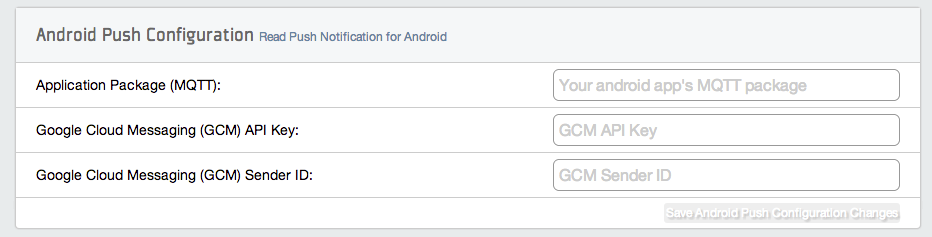
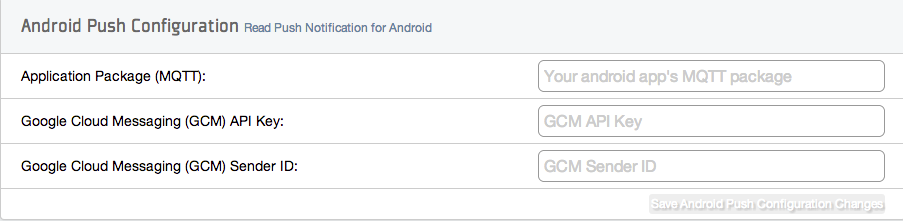
Updated docs per new Cloud Dashboard UI

Changed region(s): [[0.0, 0.2172, 1.0, 1.0], [0.0, 0.0814, 0.4961, 0.19], [0.0, 0.0271, 0.9922, 0.0543]]

diff --git a/guides/acs/sdks/android/README.md b/guides/acs/sdks/android/README.md
@@ -163,65 +163,57 @@ for (int i=0;i&lt;users.length();i++) {
 
 <h2>Push Notifications</h2>
 
-<h3>Configure Your App For Enabling Push Notifications</h3>
-
 <p>
-ACS supports two protocols to send push notifications to Android devices:
+ACS supports two protocols to send push notifications to Android devices:</p>
+
 <ul>
-<li>Google Cloud Messaging (GCM)</li>
-<li>MQTT</li>
+<li><a href="http://developer.android.com/google/gcm/index.html">Google Cloud Messaging</a> (GCM)</li>
+<li><a href="http://www.ibm.com/developerworks/webservices/library/ws-mqtt/index.html">Message Queuing Telemetry Transport</a> (MQTT)</li>
 </ul>
-</p>
+
+<p class="note">As of August 2013, MQTT has been <a href="http://www.appcelerator.com/blog/2013/08/android-push-notification-deprecating-mqtt-in-favor-of-gcm/">deprecated</a> in favor of GCM and is no longer available for Enterprise use. MQTT will continue to be available to Community users.</p>
+
+<h3>Obtaining a Google API key and GCM sender ID</h3>
 
 <p>
-To use GCM, you need to create a Google API project to obtain a <b>Google API key</b> and <b>GCM sender ID</b>.
-For instructions on creating and obtaining these items, see
-<a href="http://developer.android.com/google/gcm/gs.html">Getting Started with GCM</a> and follow the
-directions in "Creating a Google API Project", "Enabling the GCM Service" and "Obtaining an API Key".
+To use GCM in your Android application, you need to create a Google API project, enable its GCM service, and obtain the API project's Google API key and GCM sender ID. For steps on obtaining these items see <a href="http://developer.android.com/google/gcm/gs.html" target="_">Getting Started with GCM</a>. Follow the steps found there for for <i>Creating a Google API Project</i>, <i>Enabling the GCM Service</i> and <i>Obtaining an API Key</i>. When you create a new server key, per those instructions, you will be asked to provide a list of IP addresses the server will accept requests from. Leave this list empty if you want the server to accept requests from all IP addresses.
 </p>
 
-<p>
-When creating a new server key, you are asked for a list of IP addresses to accept requests from.
-Do not enter any information in the textbox and click <b>Create</b> to accept all IP addresses.
-</p>
+<h3>Configuring your app for push notifications</h3>
 
-<p>
-To use MQTT, you need your Android application's package name. MQTT support is only available for
-the non-enterprise version of ACS.
-</p>
+<p>To configure your application for push notifications you use the Dashboard (Enterprise applications) or My App (Community applications).</p>
 
-<p>
-To configure your application to use either GCM or MQTT, open up your application in the ACS web
-console and configure your settings in the <b>Android Push Configuration</b> section:
+<b>To configure your app for push notifications (Enterprise developers): </b>
+<ol>
+  <li>Open <a href="https://dashboard.appcelerator.com">Dashboard.</a> 
+  <li>Select your application from the drop-down list.</a> 
+  <li>Select the <b>Cloud</b> tab.</a> 
+  <li>Click <b>Settings & Configuration</b> from the left-side navigation.</li>
+  <li>Select the <b>Android Push</b> tab.</li>
+  <li>Enter your Google API key in the <b>GCM API Key</b> field and GCM sender ID in the <b>GCM Sender ID</b> field.
+    <img src="android_push_dashboard.png">
+  </li>
+  <li>Click <b>Save Changes</b>.</li>
+  </ul>
+</li>
+</ol>
 
-<p>
-1. To open your application in the ACS web console:<ul>
-<li>For Appcelerator Enterprise users, open
-<a href="https://dashboard.appcelerator.com">https://dashboard.appcelerator.com</a>,
-select an application from the <b>Apps</b> drop-down list, then click the <b>Cloud</b> tab.</li>
-<li>For all other users, open
-<a href="https://cloud.appcelerator.com/apps">https://cloud.appcelerator.com/apps</a>,
-locate your application, then click the <b>Manage ACS</b> link.</li>
-</ul>
-</p>
-<p>
-2. Click either <b>Settings</b> (non-enterprise version) or <b>Configuration & Settings</b>
-(enterpirse version).</li>
-</p>
-<p>
-3. In the <b>Android Push Configuration</b> section, configure either GCM or MQTT :
-<ul>
-<li>For GCM, enter your Google API key in the <b>Google Cloud Messaging (GCM) API Key</b>
-textbox and GCM sender ID in the <b>Google Cloud Messaging (GCM) Sender ID</b> textbox.</li>
-<li>For MQTT, enter your package name in the <b>Application Package (MQTT)</b> textbox. Only
-configurable for non-enterprise users.</li>
-</ul>
-</p>
-<p>
-4. Save the changes to complete the configuration process.
-</p>
+<b>To configure your app for push notifications (Community developers): </b>
 
-{@img android_push.png}
+<ol>
+  <li>Open <a href="https://cloud.appcelerator.com/apps">My Apps</a>.</li>
+  <li>Find your application in the list of apps and click the <b>Manage ACS</b> link.</li>
+  <li>In the <b>Android Push Configuration</b> section, configure either GCM or MQTT:
+      <ul>
+        <li>For GCM, enter your Google API key in the <b>Google Cloud Messaging (GCM) API Key</b> field and your GCM sender ID in the <b>Google Cloud Messaging (GCM) Sender ID</b> field.</li>
+        <li>For MQTT, enter your Android application's package name in the <b>Application Package (MQTT)</b> field.
+      </li>
+      </ul>
+      <img src="android_push.png">
+      <li>Click <b>Save Android Push Configuration Changes</b>.</li>
+  </li>
+</ol>
+
 	
 <h3>Setup Android Project</h3>
 
@@ -244,7 +236,7 @@ configurable for non-enterprise users.</li>
 
 <h3>Device Token</h3>
 
-<p>The device token is a unique identifer for an Android device, with having it, the push notification server can locate and push the desired notifications to the right device.</p>
+<p>The device token is a unique identifier for an Android device, with having it, the push notification server can locate and push the desired notifications to the right device.</p>
 <p>Device token is generated by Appcelecator Cloud Services push notification server, it is necessary to request a device token in your app to enable the push notification on Android device. To acquire a device token, you can simply call one of following methods from class <code>com.appcelerator.cloud.push.CCPushService</code>:</p>
 
 <pre class="prettyprint">
@@ -253,7 +245,7 @@ public static void getDeviceTokenAsnyc(final Context androidContext, final Strin
 </pre>
 
 <span style="font-weight: bold">androidContext</span> - The instance of <code>android.context.Context</code> from your app <br/>
-<span style="font-weight: bold">appKey</span> - The app's key of your Appecleartor Cloud Services app <br/>
+<span style="font-weight: bold">appKey</span> - The app's key of your Appcelerator Cloud Services app <br/>
 <span style="font-weight: bold">callback</span> - An instance of <code>com.appcelerator.cloud.push.DeviceTokenCallback</code> for which whenever a device token is available, its <code>receivedDeviceToken</code> will be called <br/>
 
 

diff --git a/guides/acs/sdks/ios/README.md b/guides/acs/sdks/ios/README.md
@@ -246,41 +246,41 @@ create.
   5. Click **Save**.
   6. You are prompted to enter a password for the file. Enter a password, then click **Save**.
 
-Keychain exports your certificate as a PKCS #12 file.
+Keychain exports your certificate as a PKCS #12 file that you upload to ACS to enable Apple Push Notification for your application.
 
-#### Configure the ACS Web Console
+#### Configure the ACS Web Console ####
 
-Upload your PKCS #12 (.p12) file to ACS to enable Apple Push Notification service.
+<p>You use the Dashboard (Enterprise applications) or My App (Community applications) to upload your PKCS #12 (.p12) file to ACS and enable Apple Push Notification with your application.</p>
 
-  1. To open your application in the ACS web console:
+<b>To configure your app for push notifications (Enterprise developers): </b>
+<ol>
+  <li>Open <a href="https://dashboard.appcelerator.com">Dashboard.</a> 
+  <li>Select your application from the drop-down list of applications.</a> 
+  <li>Select the <b>Cloud</b> tab.</a> 
+  <li>Select <b>Settings & Configuration</b> from the left-hand navigation.</li>
+  <li>Select the <b>iOS Push</b> tab.</li>
+  <li>Click <b>Choose File</b> in the Push Certificate field.</li>
+  <li>Locate the PKCS #12 file your exported previously and click **Choose**.</li>
+  <li>Enter the certificate's password in the Certificate Password box field.
+    <img src="ios_cert_enterprise.png">
+  </li> 
+  <li>Click <b>Save Changes</b>.</li>
+  </ul>
+</li>
+</ol>
 
-     >  For Appcelerator Enterprise users, open
-     >  [https://dashboard.appcelerator.com](https://dashboard.appcelerator.com), select an application
-     >  from the **Apps** drop-down list, then click the **Cloud** tab.
-     >
-     >  For all other users, open
-     >  [https://cloud.appcelerator.com/apps](https://cloud.appcelerator.com/apps), locate your application, then click
-     >  the **Manage ACS** link.
+<b>To configure your app for push notifications (Community developers): </b>
 
-  2. Select the correct environment to configure--either Development or Production.  Located in the
-     top-right corner of the console, this is either a drop-down (enterprise version) or a set of two
-     buttons (non-enterprise version).
-
-  3. Click either **Configuration & Settings** (enterprise version) or **Settings** (non-enterprise version).
-
-  4. Under the **Apple iOS Push Configuration** section, click **Choose File**, navigate to and select
-     your PKCS #12 file, then click **Open**.
-
-  5. Enter your certificate password in the password textbox. This is required despite the optional
-     note or hint text.
-
-  6. Save your changes.
-
-ACS will verify that the certificate uploaded correctly and is valid.
-
-{@img ios_push1.png}
-
-{@img ios_push2.png}
+<ol>
+  <li>Open <a href="https://cloud.appcelerator.com/apps">My Apps</a>.</li>
+  <li>Find your application in the list of apps and click the <b>Manage ACS</b> link.</li>
+  <li>In the <b>Apple iOS Push Certificates</b> section, click <b>Choose File</b>.</li>
+  <li>Locate the PKCS #12 file your exported previously and click **Choose**.</li>
+  <li>Enter the certificate's password in the Certificate Password box field. (A password is required despite the placeholder text indicating it's optional.)
+      <img src="ios_cert_community.png">
+  </li>
+  <li>Click <b>Save Changes</b>.
+</ol>
 
 ### Create a Provisioning Profile
 
